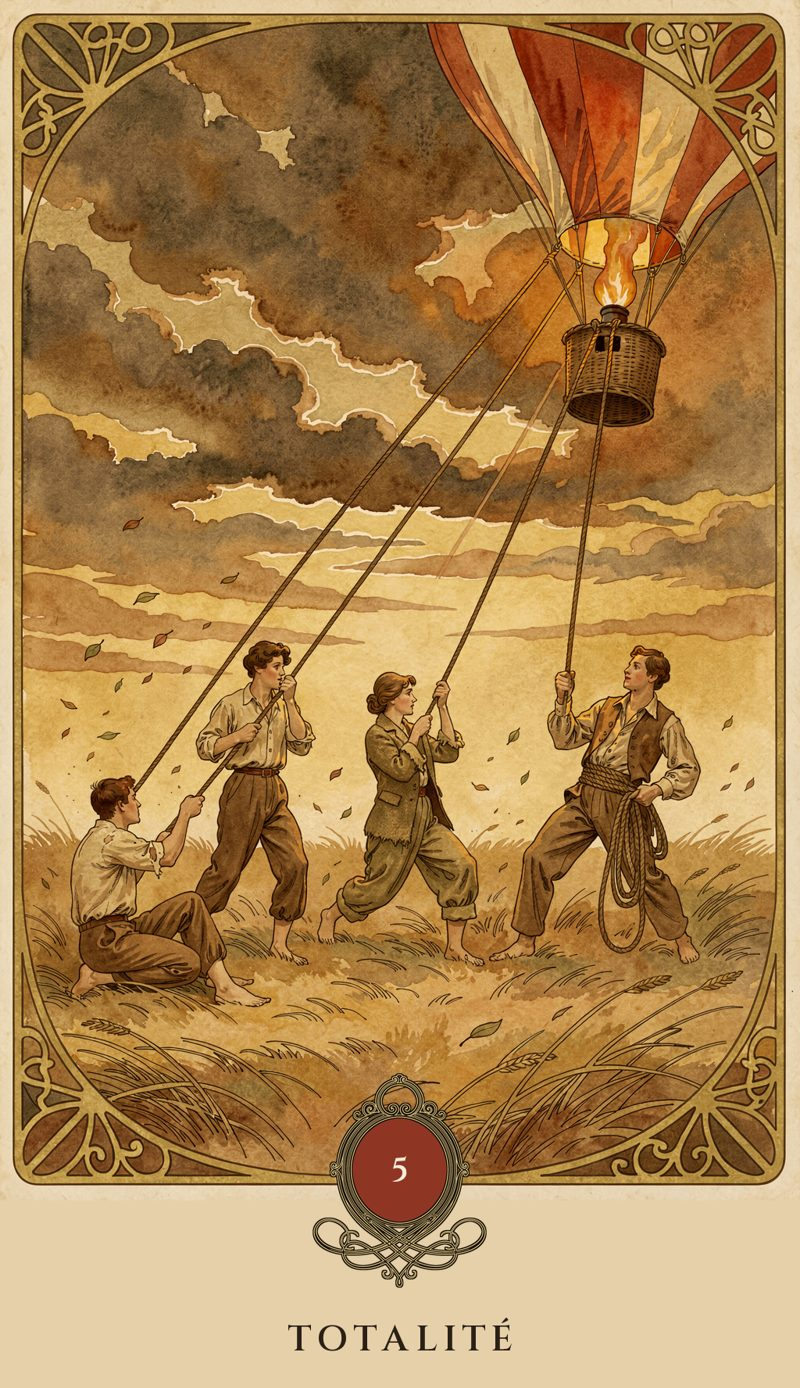
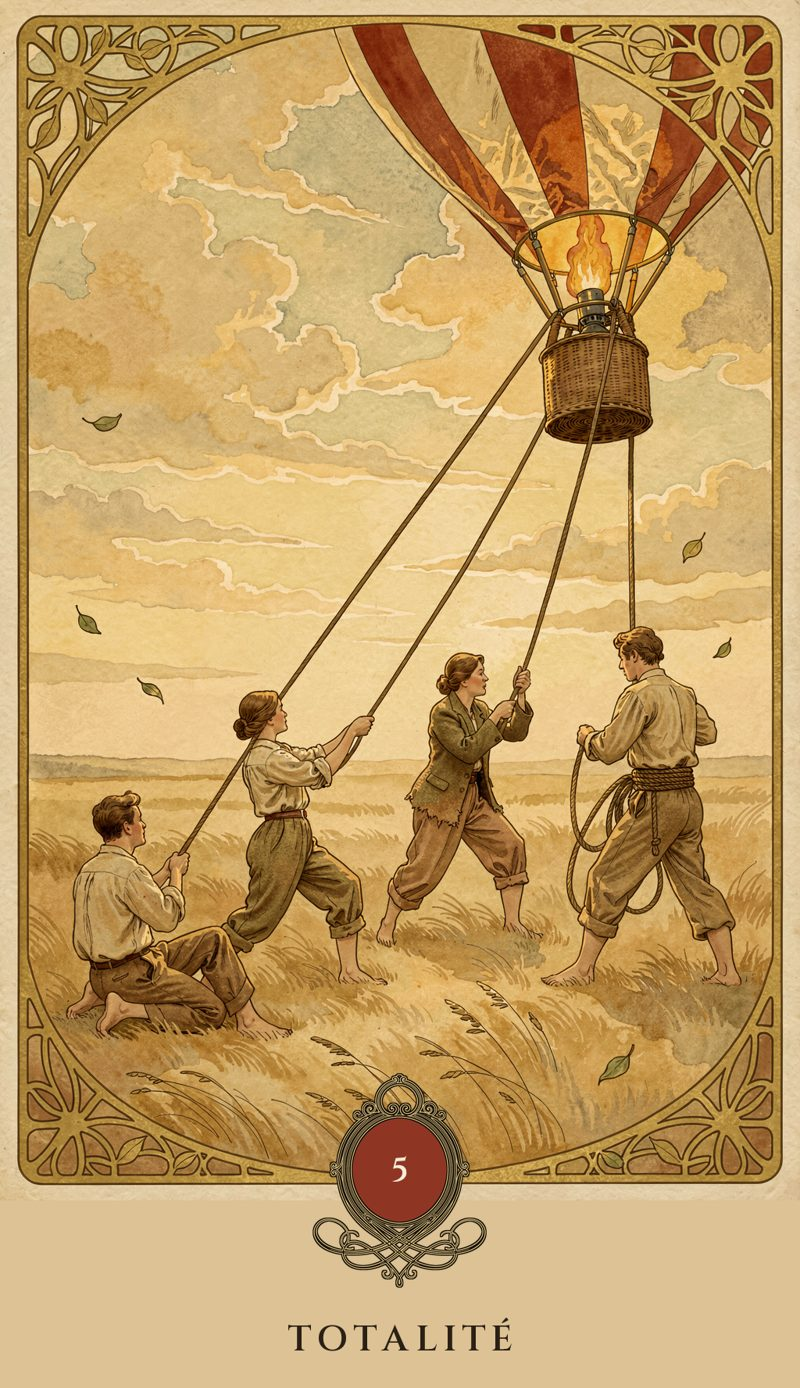
5 de Feu · Totalité : ciel adouci (v34c, graine 780400), texte réaligné
- master remplacé : nuages de perle et d'or pâle, vent léger, cinq personnes
  toutes habillées et engagées ; la version tempête est archivée
- comprendre 173 mots : « le vent couche l'herbe » remplace la tempête,
  et « cinq personnes » est écrit
- SYMBOLES_REQUIS_MINEURS[feu_5] : tempête -> vent
- cartouche, feu_5.jpg et mini/feu_5.webp régénérés ; 840 tests verts

diff --git a/tests/test_mineurs_corpus.py b/tests/test_mineurs_corpus.py
@@ -169,7 +169,7 @@ SYMBOLES_REQUIS_MINEURS = {
     "feu_2": ["pissenlits", "graines", "vent", "pré", "collines", "ciel"],
     "feu_3": ["fille", "main", "tronc", "arbre", "yeux", "forêt"],
     "feu_4": ["lucioles", "fleuve de lumière", "rivière", "nuit", "roseaux", "étoiles"],
-    "feu_5": ["ballon", "cordes", "personnes", "champ", "flamme", "tempête", "herbe"],
+    "feu_5": ["ballon", "cordes", "personnes", "champ", "flamme", "vent", "herbe"],
     "feu_6": ["feu", "guirlandes", "mât", "danse", "village", "étoiles filantes"],
     "feu_7": ["fil", "précipice", "pile", "livres", "pont", "bras"],
     "feu_8": ["marcheur", "pieds nus", "chemin", "blés", "village", "montagnes"],
